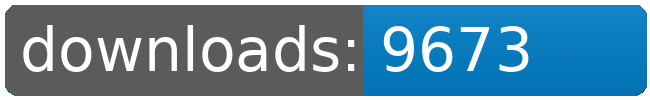
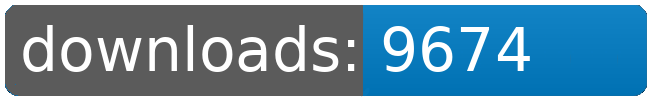
dl log written

Changed region(s): [[0.7692, 0.24, 0.8308, 0.72]]

diff --git a/README.md b/README.md
@@ -4,109 +4,109 @@
 <table>
 	<tr>
 		<td></td>
-		<td>2026-10-31</td>
 		<td>2026-11-01</td>
 		<td>2026-11-02</td>
 		<td>2026-11-03</td>
 		<td>2026-11-04</td>
 		<td>2026-11-05</td>
 		<td>2026-11-06</td>
+		<td>2026-11-07</td>
 		<td>today +</td>
 	</tr>
 	<tr>
 		<td>Bunsen.Burner</td>
-		<td>9074</td>
 		<td>9081</td>
 		<td>9087</td>
 		<td>9090</td>
 		<td>9110</td>
 		<td>9113</td>
 		<td>9117</td>
-		<td>+ 4</td>
+		<td>9117</td>
+		<td></td>
 	</tr>
 	<tr>
 		<td>Factory.Outlets</td>
-		<td>8187</td>
 		<td>8196</td>
 		<td>8204</td>
 		<td>8209</td>
 		<td>8225</td>
 		<td>8228</td>
 		<td>8231</td>
-		<td>+ 3</td>
+		<td>8231</td>
+		<td></td>
 	</tr>
 	<tr>
 		<td>Fundamental.Outfit.Expansion</td>
-		<td>9609</td>
 		<td>9620</td>
 		<td>9632</td>
 		<td>9637</td>
 		<td>9661</td>
 		<td>9666</td>
 		<td>9673</td>
-		<td>+ 7</td>
+		<td>9674</td>
+		<td>+ 1</td>
 	</tr>
 	<tr>
 		<td>Fundamental.Outfit.Expansion.Alien</td>
-		<td>39</td>
 		<td>43</td>
 		<td>46</td>
 		<td>46</td>
 		<td>52</td>
 		<td>54</td>
 		<td>56</td>
-		<td>+ 2</td>
+		<td>56</td>
+		<td></td>
 	</tr>
 	<tr>
 		<td>Jaws</td>
-		<td>7935</td>
 		<td>7943</td>
 		<td>7949</td>
 		<td>7952</td>
 		<td>7965</td>
 		<td>7969</td>
 		<td>7972</td>
-		<td>+ 3</td>
+		<td>7972</td>
+		<td></td>
 	</tr>
 	<tr>
 		<td>Korunak.Defense.Drones</td>
-		<td>8206</td>
 		<td>8215</td>
 		<td>8220</td>
 		<td>8224</td>
 		<td>8236</td>
 		<td>8240</td>
 		<td>8244</td>
-		<td>+ 4</td>
+		<td>8244</td>
+		<td></td>
 	</tr>
 	<tr>
 		<td>Laser.Sight</td>
-		<td>19</td>
 		<td>21</td>
 		<td>21</td>
 		<td>21</td>
 		<td>25</td>
 		<td>26</td>
 		<td>26</td>
+		<td>26</td>
 		<td></td>
 	</tr>
 	<tr>
 		<td>Louise.Conglomerate.Shipyards</td>
-		<td>8933</td>
 		<td>8945</td>
 		<td>8956</td>
 		<td>8961</td>
 		<td>8980</td>
 		<td>8983</td>
 		<td>8989</td>
-		<td>+ 6</td>
+		<td>8990</td>
+		<td>+ 1</td>
 	</tr>
 	<tr>
 		<td>Sheragi.Rebirth.Redux</td>
-		<td>112</td>
 		<td>113</td>
 		<td>113</td>
 		<td>113</td>
+		<td>116</td>
 		<td>116</td>
 		<td>116</td>
 		<td>116</td>
@@ -114,35 +114,35 @@
 	</tr>
 	<tr>
 		<td>Solar.Sails</td>
-		<td>8094</td>
 		<td>8101</td>
 		<td>8107</td>
 		<td>8112</td>
 		<td>8129</td>
 		<td>8132</td>
 		<td>8134</td>
-		<td>+ 2</td>
+		<td>8134</td>
+		<td></td>
 	</tr>
 	<tr>
 		<td>Zone.of.Control</td>
-		<td>7885</td>
 		<td>7893</td>
 		<td>7898</td>
 		<td>7900</td>
 		<td>7915</td>
 		<td>7920</td>
 		<td>7925</td>
-		<td>+ 5</td>
+		<td>7925</td>
+		<td></td>
 	</tr>
 	<tr>
 		<td>zzzZapping.Tweaks</td>
-		<td>27</td>
 		<td>29</td>
 		<td>29</td>
 		<td>29</td>
 		<td>35</td>
 		<td>36</td>
 		<td>36</td>
+		<td>36</td>
 		<td></td>
 	</tr>
 	<tr>
@@ -153,8 +153,8 @@
 		<td></td>
 		<td></td>
 		<td></td>
-		<td>68519</td>
-		<td>36</td>
+		<td>68521</td>
+		<td>2</td>
 	</tr>
 </table>
 </sub></sup>
@@ -162,109 +162,109 @@
 <table>
 	<tr>
 		<td></td>
-		<td>2026-10-31</td>
 		<td>2026-11-01</td>
 		<td>2026-11-02</td>
 		<td>2026-11-03</td>
 		<td>2026-11-04</td>
 		<td>2026-11-05</td>
 		<td>2026-11-06</td>
+		<td>2026-11-07</td>
 		<td>today +</td>
 	</tr>
 	<tr>
 		<td>Fundamental.Outfit.Expansion</td>
-		<td>9609</td>
 		<td>9620</td>
 		<td>9632</td>
 		<td>9637</td>
 		<td>9661</td>
 		<td>9666</td>
 		<td>9673</td>
-		<td>+ 7</td>
+		<td>9674</td>
+		<td>+ 1</td>
 	</tr>
 	<tr>
 		<td>Bunsen.Burner</td>
-		<td>9074</td>
 		<td>9081</td>
 		<td>9087</td>
 		<td>9090</td>
 		<td>9110</td>
 		<td>9113</td>
 		<td>9117</td>
-		<td>+ 4</td>
+		<td>9117</td>
+		<td></td>
 	</tr>
 	<tr>
 		<td>Louise.Conglomerate.Shipyards</td>
-		<td>8933</td>
 		<td>8945</td>
 		<td>8956</td>
 		<td>8961</td>
 		<td>8980</td>
 		<td>8983</td>
 		<td>8989</td>
-		<td>+ 6</td>
+		<td>8990</td>
+		<td>+ 1</td>
 	</tr>
 	<tr>
 		<td>Korunak.Defense.Drones</td>
-		<td>8206</td>
 		<td>8215</td>
 		<td>8220</td>
 		<td>8224</td>
 		<td>8236</td>
 		<td>8240</td>
 		<td>8244</td>
-		<td>+ 4</td>
+		<td>8244</td>
+		<td></td>
 	</tr>
 	<tr>
 		<td>Factory.Outlets</td>
-		<td>8187</td>
 		<td>8196</td>
 		<td>8204</td>
 		<td>8209</td>
 		<td>8225</td>
 		<td>8228</td>
 		<td>8231</td>
-		<td>+ 3</td>
+		<td>8231</td>
+		<td></td>
 	</tr>
 	<tr>
 		<td>Solar.Sails</td>
-		<td>8094</td>
 		<td>8101</td>
 		<td>8107</td>
 		<td>8112</td>
 		<td>8129</td>
 		<td>8132</td>
 		<td>8134</td>
-		<td>+ 2</td>
+		<td>8134</td>
+		<td></td>
 	</tr>
 	<tr>
 		<td>Jaws</td>
-		<td>7935</td>
 		<td>7943</td>
 		<td>7949</td>
 		<td>7952</td>
 		<td>7965</td>
 		<td>7969</td>
 		<td>7972</td>
-		<td>+ 3</td>
+		<td>7972</td>
+		<td></td>
 	</tr>
 	<tr>
 		<td>Zone.of.Control</td>
-		<td>7885</td>
 		<td>7893</td>
 		<td>7898</td>
 		<td>7900</td>
 		<td>7915</td>
 		<td>7920</td>
 		<td>7925</td>
-		<td>+ 5</td>
+		<td>7925</td>
+		<td></td>
 	</tr>
 	<tr>
 		<td>Sheragi.Rebirth.Redux</td>
-		<td>112</td>
 		<td>113</td>
 		<td>113</td>
 		<td>113</td>
+		<td>116</td>
 		<td>116</td>
 		<td>116</td>
 		<td>116</td>
@@ -272,35 +272,35 @@
 	</tr>
 	<tr>
 		<td>Fundamental.Outfit.Expansion.Alien</td>
-		<td>39</td>
 		<td>43</td>
 		<td>46</td>
 		<td>46</td>
 		<td>52</td>
 		<td>54</td>
 		<td>56</td>
-		<td>+ 2</td>
+		<td>56</td>
+		<td></td>
 	</tr>
 	<tr>
 		<td>zzzZapping.Tweaks</td>
-		<td>27</td>
 		<td>29</td>
 		<td>29</td>
 		<td>29</td>
 		<td>35</td>
 		<td>36</td>
 		<td>36</td>
+		<td>36</td>
 		<td></td>
 	</tr>
 	<tr>
 		<td>Laser.Sight</td>
-		<td>19</td>
 		<td>21</td>
 		<td>21</td>
 		<td>21</td>
 		<td>25</td>
 		<td>26</td>
 		<td>26</td>
+		<td>26</td>
 		<td></td>
 	</tr>
 	<tr>
@@ -311,8 +311,8 @@
 		<td></td>
 		<td></td>
 		<td></td>
-		<td>68519</td>
-		<td>36</td>
+		<td>68521</td>
+		<td>2</td>
 	</tr>
 </table>
 </sub></sup>
@@ -379,9 +379,9 @@
 		<td></td>
 	</tr>
 	<tr>
-		<td>389</td>
-		<td>20.58</td>
-		<td>6.17</td>
+		<td>390</td>
+		<td>20.53</td>
+		<td>6.16</td>
 		<td></td>
 		<td></td>
 	</tr>
